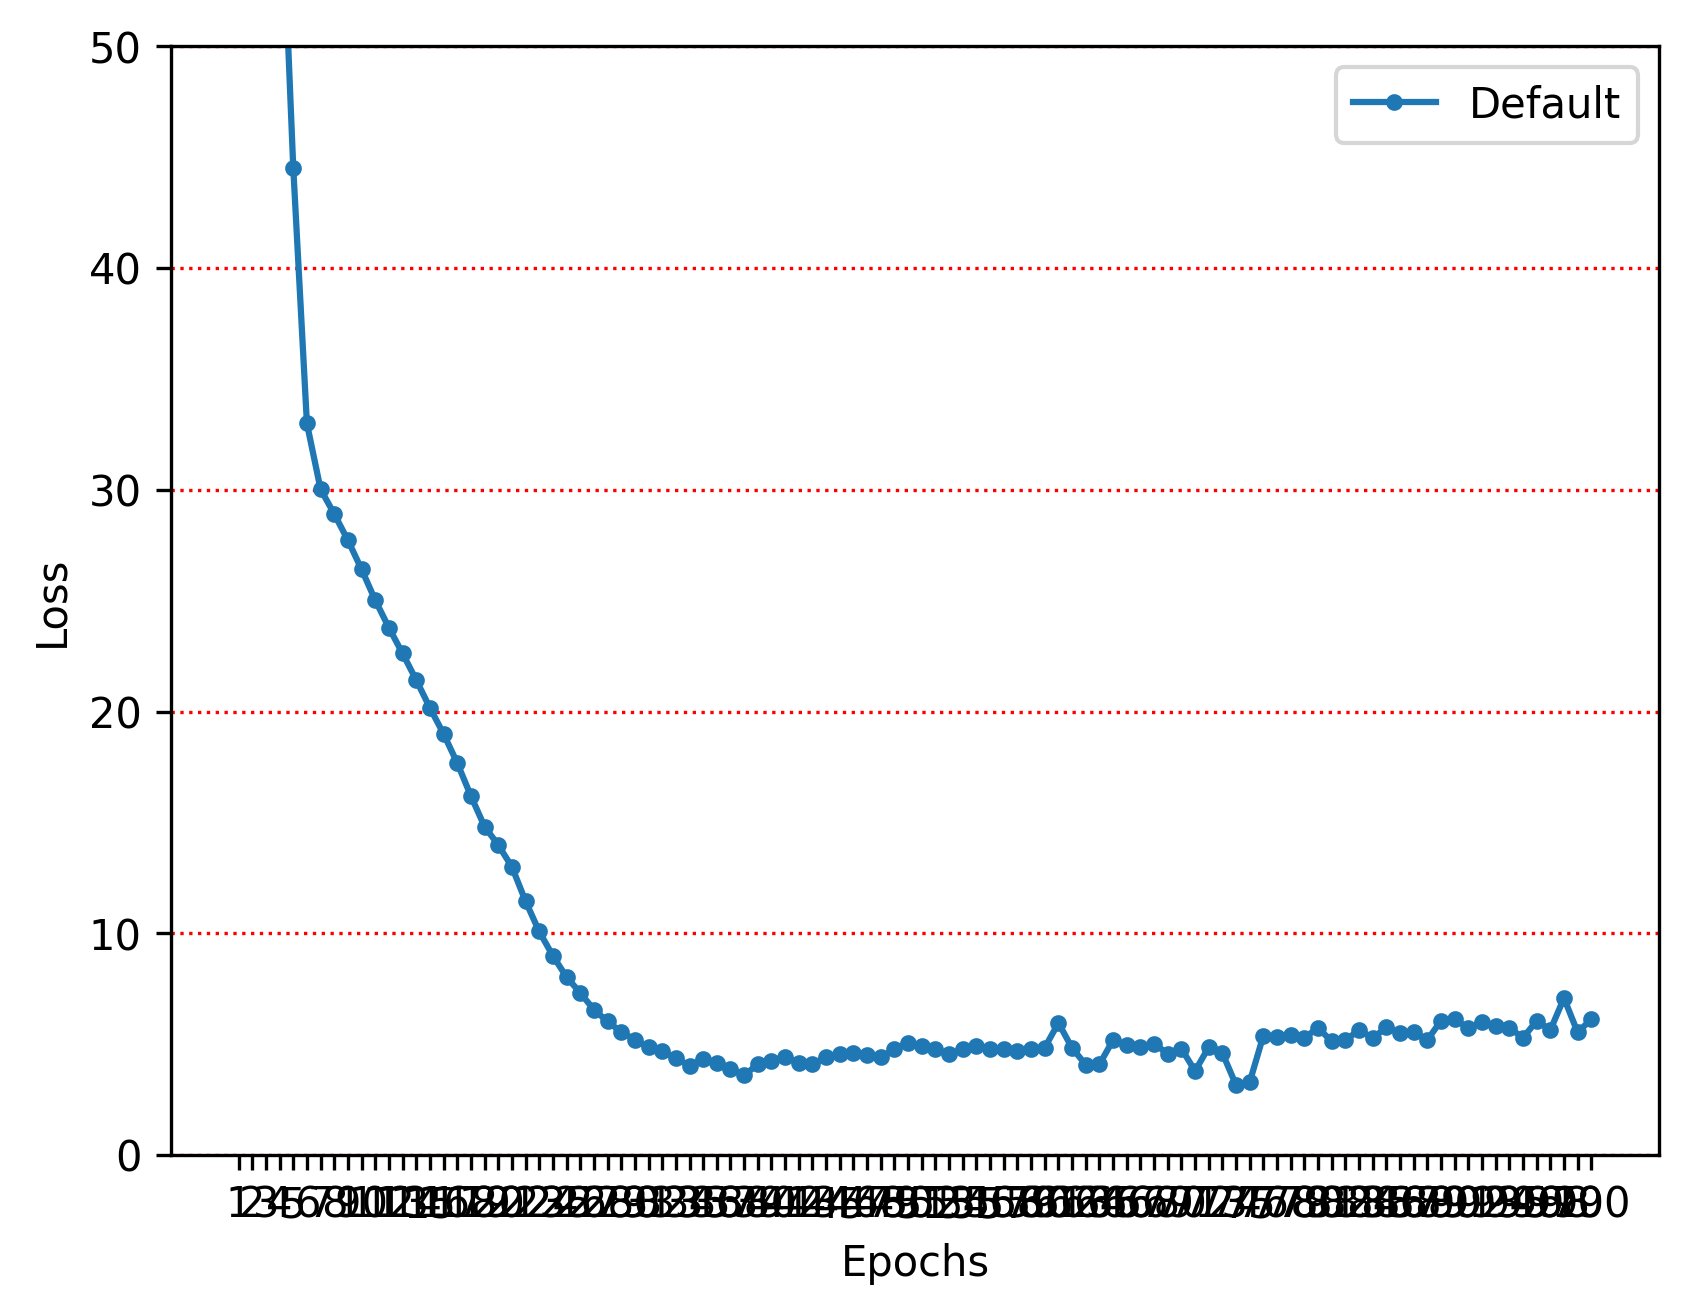
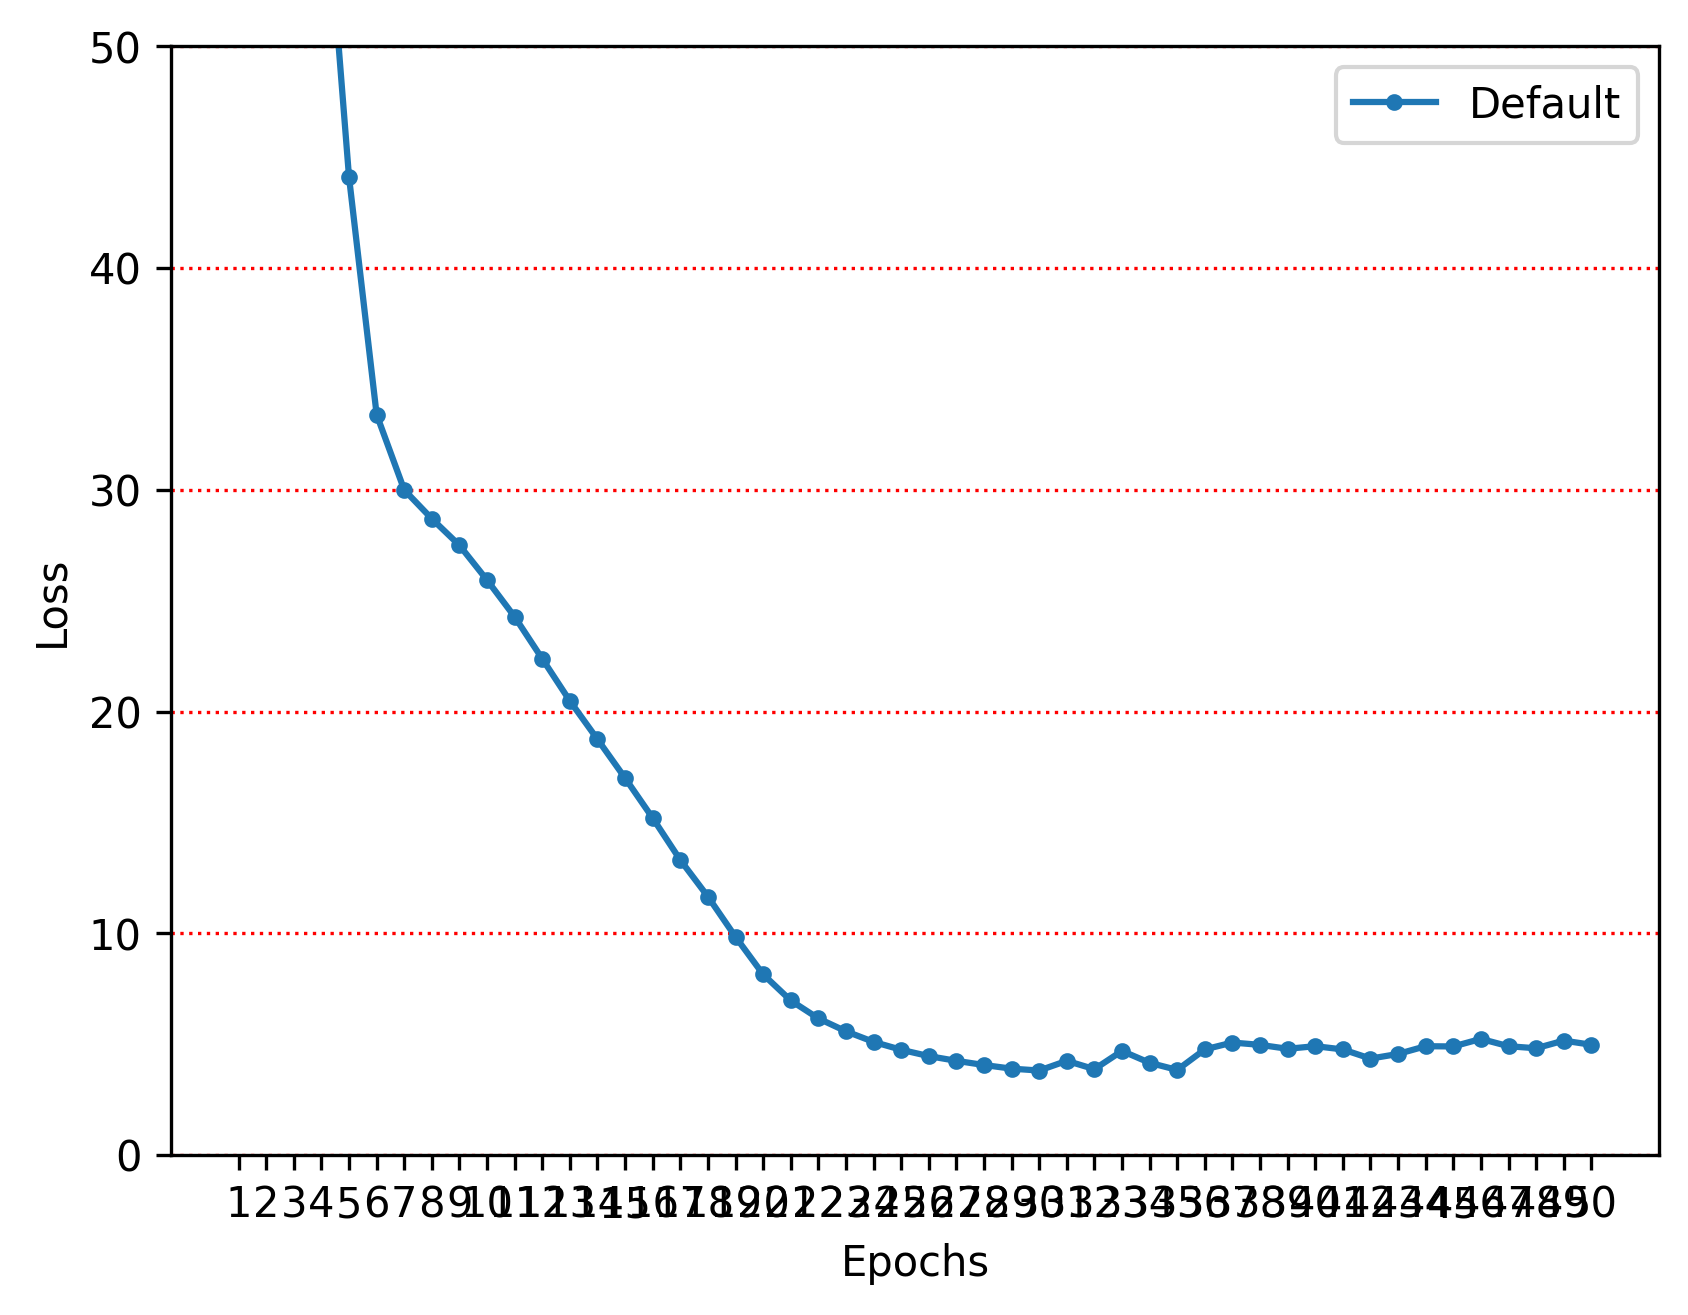
update: 階層的時間モデリングモジュールを追加し、WERプロット機能を実装

diff --git a/ContinuousSignLanguage/CNN_BiLSTM/continuous_sign_language/plots.py b/ContinuousSignLanguage/CNN_BiLSTM/continuous_sign_language/plots.py
@@ -2,6 +2,7 @@ import matplotlib.pyplot as plt
 import numpy as np
 import os
 import CNN_BiLSTM.continuous_sign_language.config as config
+from collections import Counter
 
 def train_loss_plot(losses_default):
 
@@ -65,3 +66,104 @@ def test_data_plot(test_accs_default):
     save_path = os.path.join(config.plot_save_dir, config.plot_accuracy_save_path)
     plt.savefig(save_path, dpi=300, bbox_inches='tight')
     plt.close()
+
+def wer_plot(wer_scores_default, eval_every_n_epochs):
+    plt.grid(axis="y", linestyle="dotted", color="red")
+
+    xs = np.arange(1, len(wer_scores_default)*eval_every_n_epochs+1)
+    xs_val = np.arange(eval_every_n_epochs, len(wer_scores_default)*eval_every_n_epochs+1, eval_every_n_epochs)
+    plt.plot(xs_val, wer_scores_default, label="Default", marker=".")
+    plt.xlabel("Epochs")
+    plt.ylabel("WER")
+    plt.ylim([0.0, 1.5])
+    plt.xticks(np.arange(1, len(wer_scores_default)+1, eval_every_n_epochs))
+    plt.legend()
+    save_path = os.path.join(config.plot_save_dir, config.plot_wer_save_path)
+    plt.savefig(save_path, dpi=300, bbox_inches='tight')
+    plt.close()
+
+
+def plot_top5_trends(self, save_plot=True, plot_dir=None):
+    """
+    Top5トークンの頻度推移を折線グラフで表示して保存
+    """
+    if len(self.token_frequencies) == 0:
+        print("分析データがありません")
+        return
+    
+    # 全バッチの全トークンの累積頻度を計算
+    all_tokens = Counter()
+    for batch_list in self.token_frequencies:
+        for batch_tokens in batch_list:
+            for token, prob in batch_tokens.items():
+                all_tokens[token] += prob
+    
+    # Top5トークンを特定
+    top5_tokens = [token for token, _ in all_tokens.most_common(5)]
+    
+    # 各バッチでのTop5トークンの頻度推移を計算
+    batch_numbers = list(range(len(self.token_frequencies)))
+    token_trends = {token: [] for token in top5_tokens}
+    
+    for batch_list in self.token_frequencies:
+        # 各バッチ内での平均頻度を計算
+        batch_averages = {token: 0.0 for token in top5_tokens}
+        
+        for batch_tokens in batch_list:
+            for token in top5_tokens:
+                batch_averages[token] += batch_tokens.get(token, 0.0)
+        
+        # バッチサイズで平均化
+        batch_size = len(batch_list) if batch_list else 1
+        for token in top5_tokens:
+            token_trends[token].append(batch_averages[token] / batch_size)
+    
+    # グラフの作成
+    plt.figure(figsize=(12, 8))
+    
+    colors = ['#1f77b4', '#ff7f0e', '#2ca02c', '#d62728', '#9467bd']
+    markers = ['o', 's', '^', 'D', 'v']
+    
+    for i, token in enumerate(top5_tokens):
+        plt.plot(batch_numbers, token_trends[token], 
+                label=f'{token}', 
+                color=colors[i], 
+                marker=markers[i], 
+                markersize=6,
+                linewidth=2,
+                alpha=0.8)
+    
+    plt.xlabel('Batch Number', fontsize=12)
+    plt.ylabel('Average Probability (Non-blank)', fontsize=12)
+    plt.title('Top 5 Non-blank Token Trends', fontsize=14, fontweight='bold')
+    plt.legend(bbox_to_anchor=(1.05, 1), loc='upper left')
+    plt.grid(True, alpha=0.3)
+    plt.tight_layout()
+    
+    # 統計情報を表示
+    print(f"\n=== Top 5 非ブランクトークン分析 (バッチ数: {len(self.token_frequencies)}) ===")
+    for i, token in enumerate(top5_tokens):
+        final_prob = token_trends[token][-1] if token_trends[token] else 0
+        max_prob = max(token_trends[token]) if token_trends[token] else 0
+        avg_prob = np.mean(token_trends[token]) if token_trends[token] else 0
+        print(f"{i+1}. {token}:")
+        print(f"   最新: {final_prob:.4f}, 最大: {max_prob:.4f}, 平均: {avg_prob:.4f}")
+    
+    if save_plot:
+        # 保存先ディレクトリの設定
+        if plot_dir is None:
+            plot_dir = config.plot_save_dir if hasattr(config, 'plot_save_dir') else '.'
+        
+        # ディレクトリが存在しない場合は作成
+        os.makedirs(plot_dir, exist_ok=True)
+        
+        # ファイル名に日時を追加してユニークにする
+        from datetime import datetime
+        timestamp = datetime.now().strftime("%Y%m%d_%H%M%S")
+        save_path = os.path.join(plot_dir, f'non_blank_token_trends_{timestamp}.png')
+        
+        plt.savefig(save_path, dpi=300, bbox_inches='tight')
+        print(f"\nグラフを保存しました: {save_path}")
+    
+    # plt.show() は削除
+    plt.close()  # メモリリークを防ぐために明示的に閉じる

diff --git a/ContinuousSignLanguage/CNN_BiLSTM/models/cnn_bilstm_model.py b/ContinuousSignLanguage/CNN_BiLSTM/models/cnn_bilstm_model.py
@@ -34,6 +34,90 @@ class SpatialCorrelationModule(nn.Module):
         # (B, T, D) → (T, B, D)
         return out.transpose(0, 1)
 
+class HierarchicalTemporalModule(nn.Module):
+    """階層的時間モデリングを行うモジュール - 異なる時間スケールでの特徴抽出"""
+
+    def __init__(self, input_dim, hidden_dim=256):
+        super().__init__()
+        # 局所的特徴抽出（小さいカーネル）
+        self.local_conv = nn.Conv1d(
+            in_channels=input_dim,
+            out_channels=hidden_dim,
+            kernel_size=3,  # 短い時間スケール
+            padding=1,
+            stride=1,
+        )
+
+        # 中間的特徴抽出（中程度のカーネル、拡張畳み込み）
+        self.mid_conv = nn.Conv1d(
+            in_channels=hidden_dim,
+            out_channels=hidden_dim,
+            kernel_size=5,  # 中程度の時間スケール
+            padding=4,  # padding = (kernel_size-1) * dilation / 2
+            stride=1,
+            dilation=2,  # 拡張畳み込み - 受容野を広げる
+        )
+
+        # グローバル特徴抽出（大きいカーネル、大きい拡張率）
+        self.global_conv = nn.Conv1d(
+            in_channels=hidden_dim,
+            out_channels=hidden_dim,
+            kernel_size=7,  # 長い時間スケール
+            padding=9,  # padding = (kernel_size-1) * dilation / 2
+            stride=1,
+            dilation=3,  # さらに広い受容野
+        )
+
+        # 特徴統合層
+        self.fusion = nn.Linear(hidden_dim * 3, input_dim)
+        self.layer_norm = nn.LayerNorm(input_dim)
+        self.dropout = nn.Dropout(0.1)
+
+    def forward(self, x):
+        """
+        入力: x (T, B, D) - 時間優先の形状
+        出力: (T', B, D) - 異なる時間スケールで処理され融合された特徴
+        """
+        # 入力形状を変換: (T, B, D) -> (B, D, T) [Conv1d用]
+        batch_size = x.size(1)
+        x_permuted = x.permute(1, 2, 0)  # (T, B, D) -> (B, D, T)
+
+        # 異なる時間スケールでの特徴抽出
+        local_feat = F.relu(self.local_conv(x_permuted))  # 局所的特徴
+        mid_feat = F.relu(self.mid_conv(local_feat))  # 中間的特徴
+        global_feat = F.relu(self.global_conv(mid_feat))  # グローバル特徴
+
+        # 時間次元の長さを確認
+        local_T = local_feat.size(2)
+        mid_T = mid_feat.size(2)
+        global_T = global_feat.size(2)
+
+        # 時間次元を最小値に揃える
+        min_T = min(local_T, mid_T, global_T)
+        local_feat = local_feat[:, :, :min_T]
+        mid_feat = mid_feat[:, :, :min_T]
+        global_feat = global_feat[:, :, :min_T]
+
+        # (B, D, T) -> (B, T, D)に変換
+        local_feat = local_feat.permute(0, 2, 1)
+        mid_feat = mid_feat.permute(0, 2, 1)
+        global_feat = global_feat.permute(0, 2, 1)
+
+        # 特徴結合と融合
+        concat_feat = torch.cat(
+            [local_feat, mid_feat, global_feat], dim=2
+        )  # (B, T, 3*H)
+        fused_feat = self.dropout(self.fusion(concat_feat))  # (B, T, D)
+
+        # 残差接続のための元の入力を取得（時間次元を揃える）
+        x_btd = x.permute(1, 0, 2)[:, :min_T, :]  # (B, T', D)
+
+        # 残差接続とレイヤー正規化
+        output = self.layer_norm(fused_feat + x_btd)
+
+        # (B, T, D) -> (T, B, D)に戻す
+        return output.permute(1, 0, 2)
+
 
 class CNNBiLSTMModel(nn.Module):
     def __init__(

diff --git a/ContinuousSignLanguage/CNN_BiLSTM/continuous_sign_language/modeling/predict.py b/ContinuousSignLanguage/CNN_BiLSTM/continuous_sign_language/modeling/predict.py
@@ -15,6 +15,7 @@ if __name__ == "__main__":
     out_channels = VOCAB
     save_path = model_config.model_save_path
     device = "cuda" if torch.cuda.is_available() else "cpu"
+    
     cnn_transformer = model.CNNBiLSTMModel(
         in_channels=in_channels,
         kernel_size=model_config.kernel_size,

diff --git a/ContinuousSignLanguage/CNN_BiLSTM/continuous_sign_language/config.py b/ContinuousSignLanguage/CNN_BiLSTM/continuous_sign_language/config.py
@@ -33,3 +33,4 @@ plot_loss_save_path = "cnn_transformer_loss.png"
 plot_loss_train_save_path = "cnn_transformer_train_loss.png"
 plot_loss_val_save_path = "cnn_transformer_val_loss.png"
 plot_loss_train_val_save_path = "cnn_transformer_train_val_loss.png"
+plot_wer_save_path = "cnn_transformer_wer.png"

diff --git a/ContinuousSignLanguage/CNN_BiLSTM/continuous_sign_language/modeling/config.py b/ContinuousSignLanguage/CNN_BiLSTM/continuous_sign_language/modeling/config.py
@@ -26,7 +26,7 @@ batch_first = True
 #学習パラメータ
 label_smoothing = 0.1
 lr = 3e-4
-epochs = 100
+epochs = 50
 eval_every_n_epochs = 1
 
 #モデルの保存
